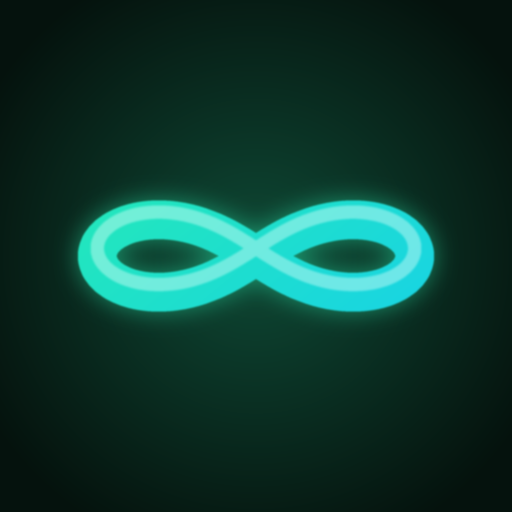
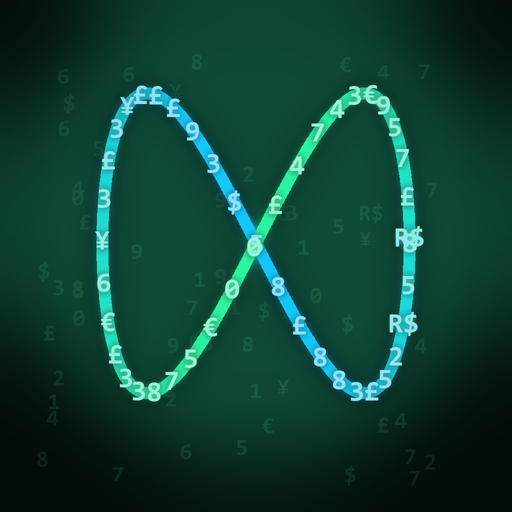
v3.9.7: novo icone MorbiusFin (fita infinito feita de numeros, igual a abertura) tambem na notificacao

diff --git a/js/app.js b/js/app.js
@@ -1,8 +1,8 @@
 /* ===== Finanças 2026 — App (v2) ===== */
 let DATA = { year: 2026, saldoInicial: 0, receitas: [], fixas: [], cartao: [], diaria: [], metas: {} };
 window.CRYPTO_KEY = null;
-const APP_VERSION = "3.9.6";
-const VERSION_NOTES = "🔔 PUSH COM APP FECHADO no ar! Vá em ⚙️ → Ativar push pra receber aviso das contas mesmo sem abrir o app (todo dia 8h) · 🟢 fundo mais leve · ✨ troca de aba sem subir";
+const APP_VERSION = "3.9.7";
+const VERSION_NOTES = "♾️ ícone novo do MorbiusFin — a fita ∞ feita de números (igual à abertura), e a notificação usa o mesmo ícone";
 let history = [];
 let redoStack = [];
 let lastSnap = JSON.stringify(DATA);

diff --git a/sw.js b/sw.js
@@ -1,5 +1,5 @@
 /* Service Worker — network-first (sempre busca a versão nova; cache só offline) */
-const CACHE = "financas-v31";
+const CACHE = "financas-v32";
 const ASSETS = [
   "./", "./index.html",
   "./css/styles.css",